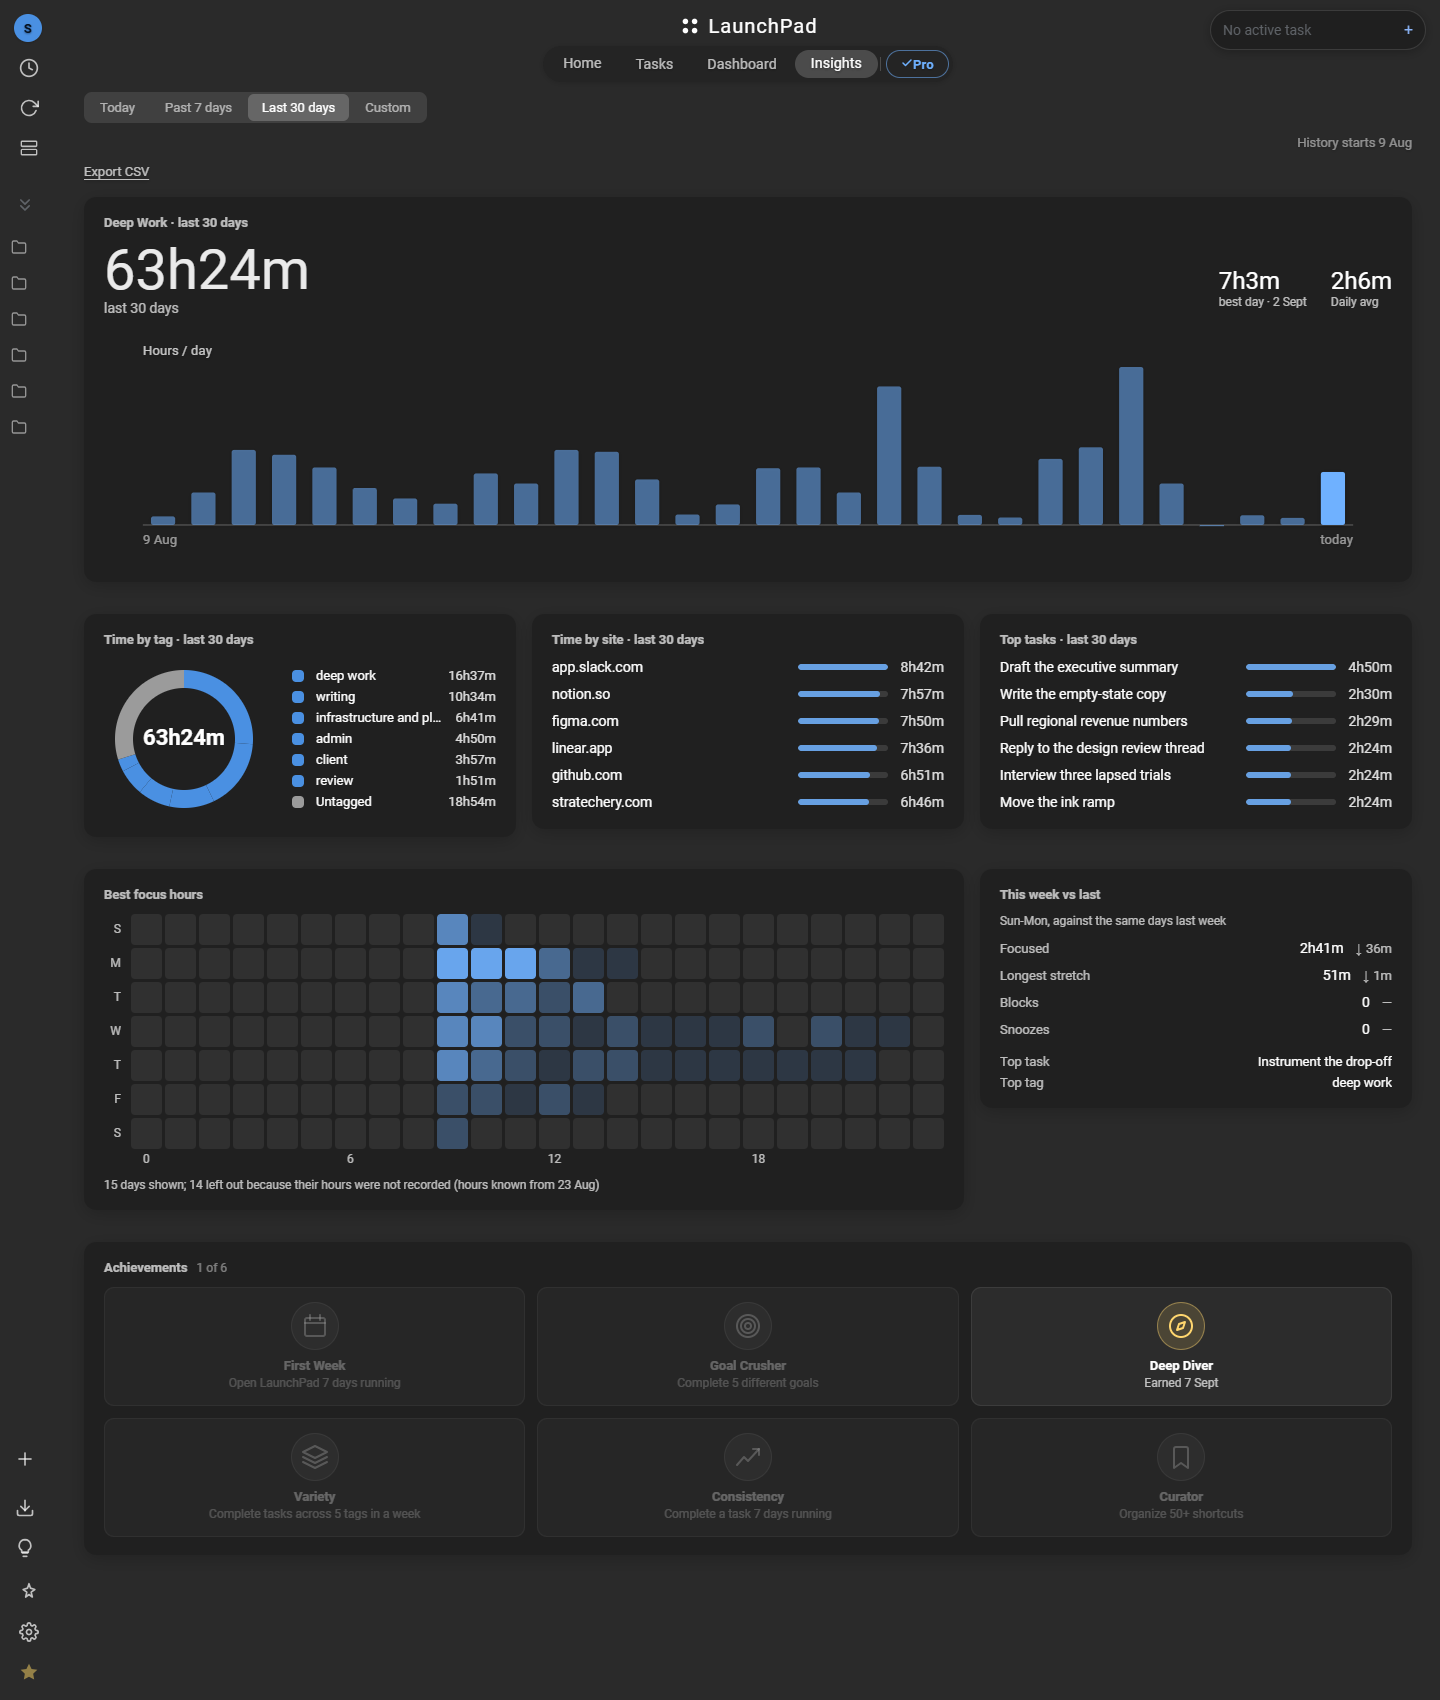
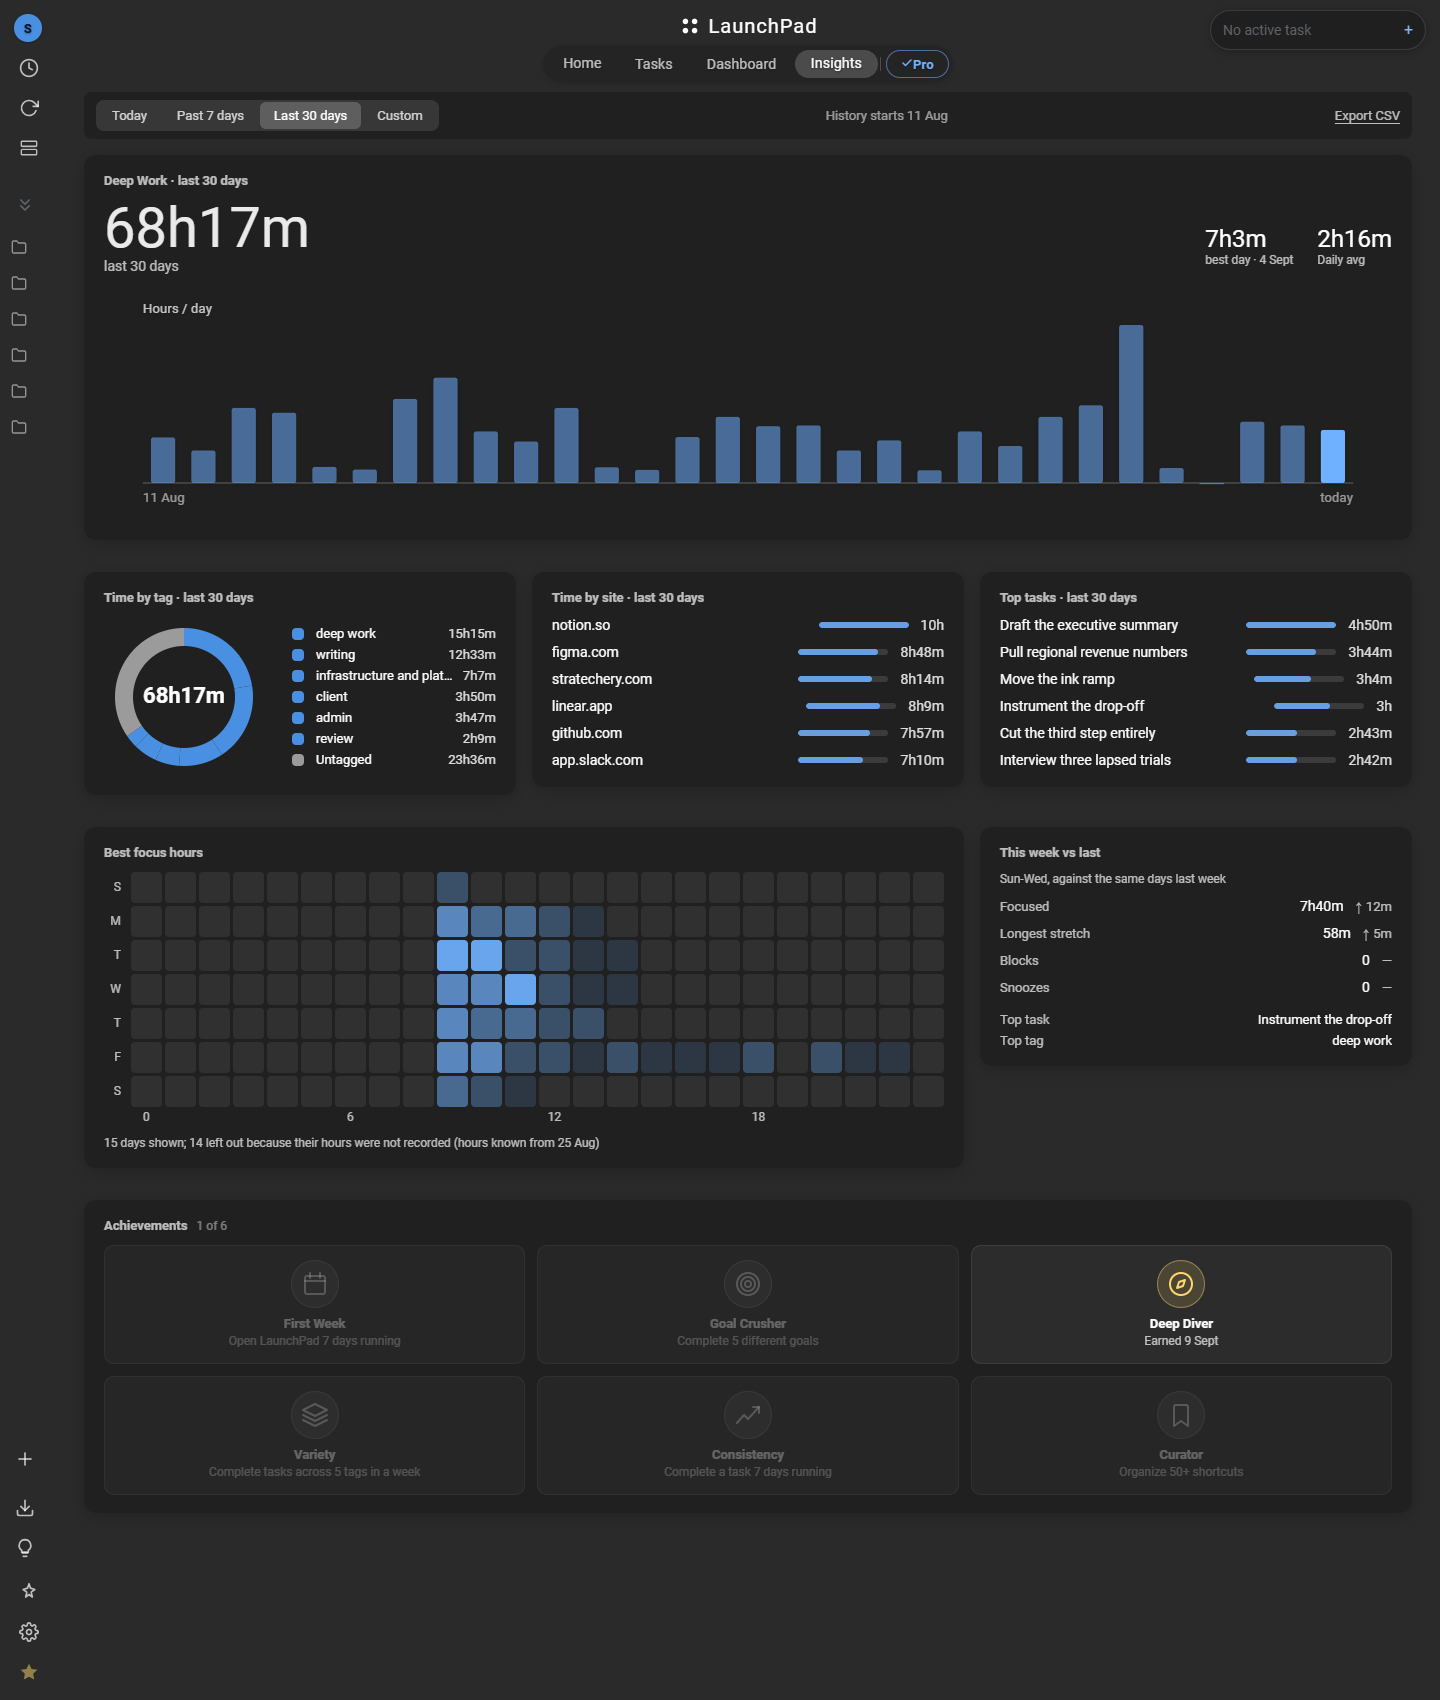
fix: row one gets a surface; correct the void entry in the design guide (refs Asana 1218038740622992)
Executes the two rulings from the checkpoint-aid REVIEW. Finding 1 (an image
wallpaper never reaching bg-light) is task 1218312944568543 and is untouched
here, as are the donut honesty items and the 488px extreme case.

ITEM A - ROW ONE IS A CONTROL BAR AND IT HAS A SURFACE.

THE DIAGNOSIS WAS BIGGER THAN THE BRIEF. The [1.8.5] report said the segmented
control "reads perfectly" on a bright detailed ground while the caption and the
export button failed. Measured, it does not: the pills came in at 1.20:1 active
and 1.15:1 idle, against the caption's 1.14:1 and the button's 1.20:1. The row
did not have one working node and two failing ones - it had four failing ones,
because its own surface (--surface-fill, a translucent white) makes a bright
ground BRIGHTER rather than occluding it. The active pill only looked better
because it is a recognisable shape.

THE MEASURABLE PROPERTY IS THE BACKDROP, NOT THE RATIO. ink-ratio.mjs measures
colour and is blind to a text shadow, so "measure with and without the shadow"
returns the same number twice and settles nothing. What it can see is the
composited backdrop behind the text, and before this change that backdrop
tracked the wallpaper exactly - rgb(32,33,36) dark, rgb(242,242,242) light,
rgb(230,226,212) bright. The wallpaper was reaching the text.

CARD TIER BY VARIABLE, BAR GEOMETRY. --pro-frost-card-bg and
--pro-frost-card-blur, because a persistent surface in the content flow is what
[…]

diff --git a/newtab.css b/newtab.css
@@ -10212,12 +10212,85 @@ html.has-bg.bg-light .pro-preview-banner-text {
 /* [1.8.1] ROW ONE: the selector alone, with the horizon caption trailing it.
    The caption is the only other thing on the row, so it sits opposite the
    control rather than under it, and drops beneath on narrow. */
+/* [1.8.6] ROW ONE GETS A SURFACE, and the reason is structural rather than a
+   count of nodes. On a bright detailed wallpaper the horizon caption and the
+   export button measured 1.14:1 and 1.20:1 - but so did the range pills beside
+   them, at 1.20:1 active and 1.15:1 idle. The [1.8.5] report said the segmented
+   control "reads perfectly" there; MEASURED, IT DOES NOT. It looked better only
+   because its active pill is a recognisable shape, and its own surface
+   (--surface-fill, a translucent white) makes the ground BRIGHTER rather than
+   occluding it. So the row did not have one working node and two failing ones.
+   It had four failing ones and no surface between any of them and the wallpaper.
+
+   THE MEASURABLE PROPERTY IS THE BACKDROP, NOT THE RATIO. tools/ink-ratio.mjs
+   measures colour and is blind to a text shadow, so "measure with and without
+   the shadow" returns the same number twice. What it can see is the composited
+   backdrop behind the text, and before this rule that backdrop tracked the
+   wallpaper exactly: rgb(32,33,36) on the dark default, rgb(242,242,242) on a
+   light wallpaper, rgb(230,226,212) on the bright ground. The wallpaper was
+   reaching the text. A Card-tier surface at 0.85 alpha ends that.
+
+   CARD TIER BY VARIABLE, BAR GEOMETRY. It takes --pro-frost-card-bg and
+   --pro-frost-card-blur because it is a persistent surface in the content flow,
+   which is what the Card tier is for; a Floater is for modals and a Menu for
+   transient popovers, and this is neither. It must NOT read as a fourth peer
+   card competing with row two, and it is kept distinct three ways, none of them
+   colour:
+     - RADIUS  --radius-lg (8px) against every .pp-insights-card's --radius-xl
+       (12px). A bar has a tighter corner than a panel.
+     - PADDING var(--space-2) var(--space-3) - 8/12 - against the cards' 18/20.
+       It hugs its controls instead of framing content.
+     - ELEVATION none. Every content card carries box-shadow 0 4px 16px and
+       lifts off the wallpaper; this one sits flat on it.
+   It also carries no .pp-dash-card-title, which every content card on this
+   board has, so nothing about it invites being read as content.
+
+   AND IT IS ONE LINE NOW. This is a layout change and it is deliberate, not a
+   side effect: .insights-range-note carries `flex: 1 0 100%` from the base rule
+   written for the custom picker, which forced the caption onto its own line and
+   the button onto a third. Three stacked lines with a surface behind them is a
+   105px block, which is a panel - the exact thing this must not read as. Auto
+   margin pulls the caption and the button together on the right of the pills. */
 .ins-row-range {
   display: flex;
-  align-items: baseline;
+  align-items: center;
   justify-content: space-between;
   gap: var(--space-3);
   flex-wrap: wrap;
+  background: var(--pro-frost-card-bg);
+  backdrop-filter: var(--pro-frost-card-blur);
+  -webkit-backdrop-filter: var(--pro-frost-card-blur);
+  border-radius: var(--radius-lg);
+  padding: var(--space-2) var(--space-3);
+}
+.ins-row-range .insights-range-note {
+  flex: 0 1 auto;
+  margin-left: auto;
+}
+
+/* [1.8.6] THE IDLE RANGE PILL, and the two ways a first attempt at this rule
+   got it wrong, because both are the kind that measure fine on one branch.
+
+   html.has-bg .seg-btn paints idle labels in --ink-meta (white at 0.60), which
+   over the bar's composited backdrop measured 4.16:1 on the bright ground. The
+   fix is one declaration, and it needs BOTH of its exclusions:
+
+     :not(.bg-light) - because .bg-light IS .has-bg, an unqualified has-bg rule
+     also fires on the light-wallpaper branch, where the bar is white-tinted.
+     Near-white ink there measured 1.10:1. That is the trap CLAUDE.md names, and
+     writing it unqualified reproduced it exactly.
+
+     :not(.active) - because html.has-bg .seg-btn.active sets color #fff at the
+     same specificity, and this rule comes later in the file, so unqualified it
+     silently took the ACTIVE pill's ink DOWN from #fff to 0.78 and dropped it
+     from 4.80:1 to 3.64:1. A rule aimed at the idle state damaged the one state
+     that was already passing.
+
+   Scoped to the Insights range control, not .seg-btn generally: the same
+   declaration serves every segmented control in Settings, and widening it there
+   is a separate change that needs its own evidence. */
+html.has-bg:not(.bg-light) .insights-range-seg .seg-btn:not(.active) {
+  color: rgba(255, 255, 255, 0.78);
 }
 .ins-row-range .insights-range { margin: 0; }
 /* The caption hardcoded `color: var(--text-secondary)` - a mid grey chosen for
@@ -10230,7 +10303,17 @@ html.has-bg.bg-light .pro-preview-banner-text {
 .ins-row-range .insights-range-note {
   margin: 0;
   color: inherit;
-  opacity: 0.7;
+  /* [1.8.6] 0.8, NOT THE 0.7 SET IN [1.8.5]. The bar is Card tier at 0.85 alpha,
+     so 15% of the wallpaper still reaches through it: on the bright ground the
+     composited backdrop lands at rgb(60,59,57) rather than the rgb(30,30,31) of
+     the dark default, and stepped-back ink over that measured 4.02:1 - far
+     better than the 1.14:1 it replaced, and still under the bar. One step up
+     clears it on all four grounds. The surface does most of the work; this is
+     the part the surface alone could not do.
+     A first attempt set this in a SECOND rule of the same specificity placed
+     ABOVE this one, so this 0.7 kept winning and the measurement did not move.
+     Edited where the declaration actually lives instead. */
+  opacity: 0.8;
 }
 
 /* [1.8.4] The export control. A QUIET button per the component table - text in
@@ -10249,6 +10332,10 @@ html.has-bg.bg-light .pro-preview-banner-text {
   opacity: 0.7;
 }
 .ins-row-range-preview { margin-bottom: var(--space-4); }
+
+/* [1.8.6] At a one-day range insightsStripHtml emits no asides at all (see the
+   comment there); this keeps the empty flex child from holding a gap open. */
+.ins-hero-aside:empty { display: none; }
 
 .insights-export-btn {
   background: none;
@@ -10287,26 +10374,22 @@ html.has-bg.bg-light .pro-preview-banner-text {
 html.has-bg.bg-light .insights-range-note,
 html.has-bg.bg-light .insights-export-btn { color: var(--text-primary); }
 
-/* [1.8.5 ITEM E] THE TWO BARE-TEXT NODES ON ROW ONE. Row one has no card, so
-   these sit directly on the wallpaper and measured 1.45:1 and 1.67:1 over a
-   bright photo - white on near-white. The guide's rule for text sitting
-   directly on wallpaper is a text shadow, which is what Home's grid names and
-   the search bar already use, so this is the established treatment rather than
-   a new one.
+/* [1.8.6] THE [1.8.5] TEXT SHADOW ON THESE TWO NODES IS REMOVED, because the
+   surface above makes it redundant and the project's rule is that a mitigation
+   has to earn its place rather than accumulate.
 
-   STATE THE HARNESS LIMIT, because it matters: tools/ink-ratio.mjs measures
-   COLOUR contrast and cannot see a text shadow. Those two nodes will still
-   measure ~1.45 and ~1.67 after this change. The mitigation is real and it is
-   UNMEASURED BY THAT INSTRUMENT - which is a gap in the evidence, not a reason
-   to claim the number moved.
+   THE EVIDENCE, and its limit stated plainly. ink-ratio.mjs cannot see a text
+   shadow, so it cannot answer "is the shadow still helping" directly - asking
+   it with and without returns the identical number. The question it CAN answer
+   is whether there is anything left to mitigate, and the answer is measured:
+   with the bar in place the composited backdrop behind these two nodes is the
+   same on all four grounds instead of tracking the wallpaper, so the bright
+   detailed ground the shadow existed for no longer reaches the text at all.
+   A shadow against a hazard that has been occluded is belt and braces with no
+   evidence behind the braces, which is what the brief for this round rules out.
 
-   Scoped to html.has-bg and NOT to bg-light: on the light-wallpaper branch the
-   ink is already dark (#5f6368) and a dark shadow under dark text would only
-   muddy it. */
-html.has-bg:not(.bg-light) .insights-range-note,
-html.has-bg:not(.bg-light) .insights-export-btn {
-  text-shadow: 0 1px 3px rgba(0, 0, 0, 0.5);
-}
+   The guide's rule is a shadow for text sitting DIRECTLY on wallpaper. After
+   this round no text on this board does. */
 
 /* [1.8.1] LIGHT-BRANCH INK TOKENS FOR THE INSIGHTS CARDS, mirroring
    html.has-bg.bg-light .dash-mod .pp-insights-card exactly. Borrowing

diff --git a/newtab.js b/newtab.js
@@ -3364,7 +3364,18 @@
     // one declaration to change rather than two to keep in step - the same
     // resolution [1.7.4] used for the preview.
     var lead = items[0];
-    var aside = items.slice(1);
+    // [1.8.6] AT A ONE-DAY RANGE THE TWO ASIDES SUPPRESS, and the decision is
+    // to drop them rather than to relabel them. Over a single day the period
+    // total, the best day and the daily average are ARITHMETICALLY THE SAME
+    // NUMBER - the checkpoint frame showed 2h22m printed three times across the
+    // hero - because both asides are readings whose whole purpose is to
+    // summarise ACROSS days. The best of one day is that day; the average of
+    // one day is that day. Neither is wrong, and that is exactly why relabelling
+    // them would not help: the figures are correct and they are empty, and a
+    // board whose organising principle is one honest number per claim should
+    // not print the same claim three times because the layout has room.
+    // The lead keeps the number; the row simply stops repeating it.
+    var aside = (keys.length <= 1) ? [] : items.slice(1);
     return '<div class="ins-hero-lead">' +
         '<span class="dash-hero-num">' + escapeHtml(lead.num) + '</span>' +
         '<span class="ins-hero-lead-label">' + lead.label + '</span>' +

diff --git a/docs/SPECS/design-guide.md b/docs/SPECS/design-guide.md
@@ -210,8 +210,11 @@ Doctrine: the Dashboard answers "what about today". Its hero is focused today. I
 
 - **Hero band (span 12).** Left third: the ring (F5) around the `--fs-display-1` focused-today numeral, with the target and the two small counts (tasks done, blocked) beneath in secondary ink. The ring's stroke is the accent; its track is the hairline. When no target is set, the ring is absent and the numeral stands alone at the same size. Middle third: the pick-up card, the one place on the Dashboard with an outlined primary button (the shipped outline rule). Right third: streak and "this week so far", `--fs-display-3`, secondary labels. Nothing in the hero band pulses.
 - **Row two.** Today (span 7): the due-today list and G9 today's three, 36px rows, checkbox left, priority as the shipped left border, quiet options pill on hover. Goals (span 5): each goal one row, name, fraction, and a thin progress bar in the accent; a 5-of-5 goal shows in full per the 2026-08-11 rule.
-- **SETTLED 2026-09-07 ([1.8.5]) — the bottom-right void, after three deferrals.** Measured on the `busy` fixture at 1440: the two row-two grid cells are equal-height siblings (both 465px), but the CARDS inside them are content-height, so the Goals card ends 261px above the Due-today card and that 261px is bare wallpaper. **The ruling is that this is correct and it is not to be re-opened without new evidence.** The asymmetry is semantic and deliberate: due-today is an unbounded working list capped at ten rows, goals are a bounded small set capped at five, so the left card is DESIGNED to be the deeper one, and a user with four goals has four goals. The three ways to close the gap are all worse than the gap. Stretching the Goals card to its cell puts ~260px of air inside a frosted card, and air inside a card reads as broken where air beside one reads as page. Moving a module means there is a spare module, and there is not. Inventing one to fill the space is the failure this arc refused three separate times, most recently in [1.8.3] when a stretch COUNT was declined for want of a threshold the data could not justify. And the space is not a hole: it is the wallpaper, which is this product's primary visual surface and the reason the card layer is translucent at all.
-- The column is not structurally empty either — it already has a second slot, and the evening uses it. Measured in the same pass with the end-of-day boundary moved back: the Day Recap tile lands beneath the Goals card at 87px tall, leaving ~165px. So the shape is *one tall working column beside one short reference column that gains a tile at dusk*, which is a description of the day, not a defect in the grid.
+- **~~SETTLED 2026-09-07 ([1.8.5]) — the bottom-right void, after three deferrals.~~ CORRECTED 2026-09-09 ([1.8.6]). THE 2026-09-07 ENTRY WAS WRONG AND IS REPLACED, NOT QUIETLY EDITED.** What it said was: *"the ruling is that this is correct and it is not to be re-opened without new evidence"*, and *"the space is not a hole: it is the wallpaper"*. It was ruled unconditionally from a SINGLE shape of the `busy` fixture and it does not hold at a second.
+- **The three measurements, all at 1440 on the same plain ground.** Goals rows against Due-today rows, then the gap between the bottom of the Goals CARD and the bottom of its equal-height grid CELL: **5 goals / 8 due → 277px** (the shape the original ruling was made from); **5 goals / 1 due → 16px**; **1 goal / 10 due → 488px, with an 80px card sitting at the top of a 568px column**. At 16px the columns read as designed. At 277px the wallpaper argument holds. At 488px it does not — that reads as a stranded card, not as page, and the original entry asserted the opposite as a general rule.
+- **What survives, narrowed to what was measured.** The 7/5 split and the content-height cards are correct, and the asymmetry behind them is still semantic: due-today is a working list capped at ten rows, goals a bounded set capped at five, so the left card is designed to be the deeper one. The three ways of closing a MODERATE gap are still worse than the gap — stretching the card puts air inside a frosted surface, moving a module presumes a spare one, and inventing a module to fill space is the failure this arc refused three times. **That reasoning is now scoped to the moderate case and carries no claim about extreme imbalance**, which is the case it was never tested against.
+- **The extreme case is open, and it is a design decision rather than a defect to patch.** Filed rather than settled here. Note the measured ratio for whoever takes it: the Goals card occupies 92% of its cell at 16px, 40% at 277px, and 14% at 488px. No threshold is asserted between 14% and 40%, because the data does not locate one and inventing thresholds the data cannot justify is the specific failure this arc has refused repeatedly.
+- The column is not structurally empty — it has a second slot and the evening uses it. Measured with the end-of-day boundary moved back: the Day Recap tile lands beneath the Goals card at 87px. That remains true, and at 488px it closes 87 of the gap and leaves 401.
 - **Evening state** swaps the hero band for the recap: same band, same sizes, the numeral becomes the day's total and the pick-up card becomes "Work's done" or the open list, per the existing invariant.
 - **Empty states** are invitations in the interface's voice: "Nothing due today. Add one from Tasks or pick three above." Never a sad illustration, never a grey box.
 
